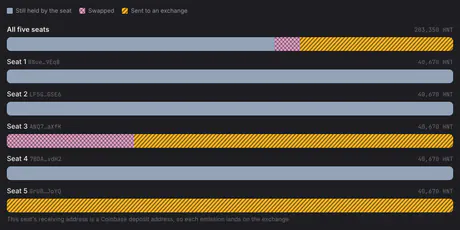
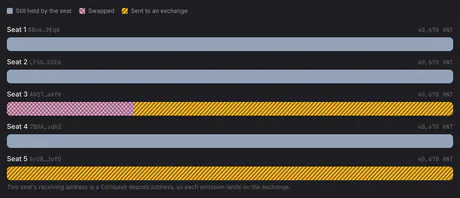
Drop the "All five seats" bar from Where it went, by seat
The section now shows one 100% bar per seat over the table. The
landing card's bars print is re-captured and re-baked to match.

diff --git a/pages/public/src/council-emissions/FateBars.jsx b/pages/public/src/council-emissions/FateBars.jsx
@@ -27,20 +27,16 @@ const pct = (part, total) => {
 };
 
 /**
- * Where each seat's emissions went: a 100% bar per seat (and for the whole
- * council) over everything emitted to it, plus the same numbers as a table.
+ * Where each seat's emissions went: a 100% bar per seat over everything
+ * emitted to it, plus the same numbers as a table.
  */
 function FateBars({ summary, onOpenSeat }) {
   const dark = useDarkMode();
-  const councilByKind = useMemo(() => {
-    const out = {};
-    for (const s of summary.seats) {
-      for (const [k, v] of Object.entries(s.byKind)) out[k] = (BigInt(out[k] || "0") + BigInt(v)).toString();
-    }
-    return out;
-  }, [summary]);
-  const councilTotal = summary.seats.reduce((acc, s) => acc + BigInt(s.received), 0n).toString();
-  const kinds = FATES.filter((f) => councilByKind[f.kind] && BigInt(councilByKind[f.kind]) > 0n);
+  // The fates any seat has, for the legend and the table's columns.
+  const kinds = useMemo(
+    () => FATES.filter((f) => summary.seats.some((s) => s.byKind[f.kind] && BigInt(s.byKind[f.kind]) > 0n)),
+    [summary],
+  );
 
   return (
     <div className="space-y-5">
@@ -55,13 +51,6 @@ function FateBars({ summary, onOpenSeat }) {
       </ul>
 
       <div className="space-y-3">
-        <div>
-          <div className="mb-1.5 flex items-baseline justify-between gap-3 text-sm">
-            <span className="font-semibold text-content">All five seats</span>
-            <span className="font-mono text-xs tabular-nums text-content-tertiary">{fmtHnt(councilTotal)}</span>
-          </div>
-          <Bar byKind={councilByKind} total={councilTotal} dark={dark} label="Where all council emissions went" />
-        </div>
         {summary.seats.map((s) => (
           <div key={s.wallet}>
             <div className="mb-1.5 flex items-baseline justify-between gap-3 text-sm">

diff --git a/pages/public/src/pages/landing/previews/council-emissions.js b/pages/public/src/pages/landing/previews/council-emissions.js
@@ -1,7 +1,7 @@
 // Council Emissions — a hero number over a chart and a strip. The emissions
 // timeline (five seat lanes: emission bars colored by where they went, transfers
-// below) lies at the back across the top, tilted left; the "Where it went, by
-// seat" bars cross the lower left the other way; the "Emitted to seats" tile
+// below) lies at the back across the top, tilted left; the five per-seat
+// "Where it went" bars cross the lower left the other way; the "Emitted to seats" tile
 // (203,350 HNT at capture, the anchor) sits on the lower right on top. On hover
 // the timeline fans up, the bars splay left and the tile lifts and straightens.
 // Schema: ./index.js.
@@ -11,7 +11,7 @@ export default {
   tone: TONES.governance[0],
   prints: [
     { id: "timeline", src: { file: "timeline.png", rect: { x: 10, y: 74, w: 900, h: 460 } }, out: 680, x: 52, y: 38, w: 94, r: -3, z: 1 },
-    { id: "bars", src: { file: "fate-bars.png", rect: { x: 0, y: 0, w: 940, h: 470 } }, out: 460, x: 34, y: 74, w: 64, r: 2.5, z: 2 },
+    { id: "bars", src: { file: "fate-bars.png", rect: { x: 0, y: 0, w: 940, h: 404 } }, out: 460, x: 34, y: 75, w: 64, r: 2.5, z: 2 },
     { id: "emitted", src: { file: "stat-emitted.png", rect: { x: 0, y: 0, w: 203, h: 138 } }, out: 340, x: 74, y: 77, w: 44, r: -2, z: 3 },
   ],
 };

diff --git a/worker/src/tools/council-emissions/CLAUDE.md b/worker/src/tools/council-emissions/CLAUDE.md
@@ -240,7 +240,7 @@ says so.
 |---|---|
 | `CouncilEmissions.jsx` | Shell. Polls `/summary` every 60 s while visible. View state lives in the query: `?seat=<wallet>&lot=<sig>&tx=<sig>`. Also stats, banners (backfill, drift, no emission for 54 h), elected members and method notes |
 | `EmissionsTimeline.jsx` | SVG lanes on a shared UTC axis, with a pattern legend. Emissions above each lane's line, stacked by fate; outflows below it. The bars are too thin for patterns, so every mark's fates are also given as text: the tooltip, a polite live region for screen readers, the seat ledger and the table. Hover or focus links an emission to the transfers that carried it (`lotIdx`), and back. Arrow, Home and End keys move between marks; Enter opens the seat at that mark. Fits the screen below 560 px |
-| `FateBars.jsx` | 100% bars (council and per seat), plus the same numbers as a table |
+| `FateBars.jsx` | A 100% bar per seat, plus the same numbers as a table |
 | `patterns.jsx` | One fill pattern per fate (`PatternDefs`/`PatternSheet`), `FateFill` and `Swatch`. Bars, legends and seat swatches use them so nothing relies on color alone |
 | `SeatDetail.jsx` | Header (wallet, Solscan and Wallet Dashboard links; the reconciliation is in the API and agent tools, not shown as a pill); a cumulative emitted vs still-held chart (recharts `stepAfter`); every emission with each part's fate, date, days held and hop path; outflows with the emissions they carried; other inflows, with veHNT claims folded per day. Every swap, transfer and hop links to its transaction on Solscan (a fate links the transaction that moved it out of the seat), and each emission and transfer row has a "Link here" permalink (`?seat=&lot=` / `?seat=&tx=`) that scrolls to and highlights it |
 | `DistributionRuns.jsx` | Lazy `/runs` table and the explanation of 0/1/2-day runs |
@@ -325,8 +325,7 @@ and the card touches neither at 3, 2 or 1 columns.
 Three prints, from `scripts/tool-previews/capture/council-emissions.mjs`:
 - `timeline` (back): the emissions timeline's five seat lanes, without the legend
   and month axis.
-- `bars` (middle): "Where it went, by seat": legend, the all-seats bar and the
-  five per-seat bars.
+- `bars` (middle): "Where it went, by seat": legend and the five per-seat bars.
 - `emitted` (top, the anchor): the "Emitted to seats" stat tile, shot at dpr 3.
 
 The capture loads `/council-emissions` at 1024 px and clicks nothing. It
